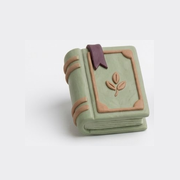
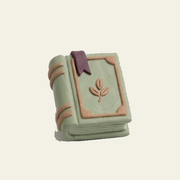
Use clay art only on the Little Library welcome.
Cut the books and wordmark out as transparent PNGs, show them on a one-time intro, and keep the app itself on Alice with an icon-only dock.

Changed region(s): [[0.1944, 0.2222, 0.8333, 0.8056]]

diff --git a/docs/library/styles.css b/docs/library/styles.css
@@ -83,17 +83,18 @@ img { max-width: 100%; display: block; }
   backdrop-filter: blur(24px) saturate(1.2);
   -webkit-backdrop-filter: blur(24px) saturate(1.2);
   border-radius: 999px;
-  padding: 0 18px 0 16px;
+  padding: 0 18px;
   box-shadow: 0 8px 24px rgba(70, 50, 48, 0.07);
   overflow: hidden;
 }
-.brand-wordmark {
-  height: 36px;
-  width: auto;
-  max-width: 100%;
-  object-fit: contain;
-  object-position: left center;
-  display: block;
+.brand-text {
+  font-family: var(--display);
+  font-weight: 600;
+  font-size: 1.08rem;
+  letter-spacing: -0.015em;
+  line-height: 1;
+  white-space: nowrap;
+  color: var(--ink);
 }
 .profile-btn {
   width: var(--tap); height: var(--tap);
@@ -345,11 +346,6 @@ img { max-width: 100%; display: block; }
   background: none;
   box-shadow: none;
   margin-top: 4px;
-}
-.empty-art {
-  width: min(300px, 86%);
-  height: auto;
-  margin: 4px auto 18px;
 }
 .empty h2 {
   margin: 0 0 8px;
@@ -638,11 +634,10 @@ img { max-width: 100%; display: block; }
   padding: 0 2px;
   transition: color 220ms ease, transform 180ms ease, opacity 160ms ease;
 }
-.tab img {
-  height: 20px;
-  width: auto;
-  max-width: 100%;
-  object-fit: contain;
+.tab svg {
+  width: 26px;
+  height: 26px;
+  stroke-width: 1.75;
   display: block;
   pointer-events: none;
 }
@@ -892,6 +887,140 @@ img { max-width: 100%; display: block; }
     box-shadow: 0 0 0 1px rgba(50, 70, 52, 0.06), 0 24px 80px rgba(40, 60, 45, 0.12);
     border-radius: 0;
   }
+}
+
+
+/* —— First-visit welcome (clay only here) —— */
+@keyframes welcomeButtonGradient {
+  0%, 100% { background-position: 0% 50%; }
+  50% { background-position: 100% 50%; }
+}
+@keyframes welcomeIconBounce {
+  0% { opacity: 0; transform: translateY(12px) scale(.88); }
+  55% { opacity: 1; transform: translateY(-5px) scale(1.03); }
+  78% { transform: translateY(2px) scale(.98); }
+  100% { opacity: 1; transform: translateY(0) scale(1); }
+}
+.welcome {
+  position: absolute;
+  inset: 0;
+  z-index: 100;
+  display: flex;
+  flex-direction: column;
+  align-items: center;
+  justify-content: flex-start;
+  text-align: center;
+  padding: calc(28px + var(--safe-top)) 28px calc(28px + var(--safe-bottom));
+  background: #E7EBE4;
+  opacity: 0;
+  transition: opacity .36s ease;
+}
+.welcome[hidden] { display: none; animation: none; }
+.welcome.open { opacity: 1; }
+.welcome-main {
+  flex: 1;
+  display: flex;
+  flex-direction: column;
+  align-items: center;
+  justify-content: center;
+  width: min(420px, 100%);
+}
+.welcome-emoji,
+.welcome-wordmark,
+.welcome-line,
+.welcome-enter {
+  opacity: 0;
+  transform: translateY(14px);
+  transition: opacity 560ms cubic-bezier(.22, 1, .36, 1), transform 560ms cubic-bezier(.22, 1, .36, 1);
+}
+.welcome.open .welcome-emoji { opacity: 1; transform: none; transition-delay: 90ms; }
+.welcome.open .welcome-wordmark { opacity: 1; transform: none; transition-delay: 220ms; }
+.welcome.open .welcome-line { opacity: 1; transform: none; transition-delay: 350ms; }
+.welcome.open .welcome-enter { opacity: 1; transform: none; transition-delay: 480ms; }
+.welcome-emoji {
+  display: flex;
+  align-items: flex-end;
+  justify-content: center;
+  gap: 4px;
+  line-height: 1;
+  margin: 0 0 40px;
+}
+.welcome-emoji img {
+  width: 92px;
+  height: 92px;
+  object-fit: contain;
+  display: block;
+  opacity: 0;
+  transform: translateY(12px) scale(.88);
+}
+.welcome.open .welcome-emoji img {
+  animation: welcomeIconBounce 500ms cubic-bezier(.22, 1, .36, 1) both;
+}
+.welcome.open .welcome-emoji img:nth-child(2) { animation-delay: 110ms; }
+.welcome.open .welcome-emoji img:nth-child(3) { animation-delay: 220ms; }
+@media (max-width: 380px) {
+  .welcome-emoji img { width: 76px; height: 76px; }
+}
+.welcome-wordmark {
+  width: min(280px, 78vw);
+  height: auto;
+  display: block;
+  object-fit: contain;
+  margin: 0 0 28px;
+  opacity: 0;
+  transform: translateY(14px) scale(.96);
+}
+.welcome-line {
+  margin: 0 0 22px;
+  max-width: 32ch;
+  color: var(--ink-2);
+  font-size: 1.02rem;
+  line-height: 1.55;
+}
+.welcome-enter, .about-replay {
+  width: 100%;
+  min-height: 52px;
+  border: none;
+  outline: none;
+  border-radius: 999px;
+  cursor: pointer;
+  font-family: var(--font);
+  font-weight: 600;
+  font-size: 1rem;
+  letter-spacing: 0.01em;
+}
+.welcome-enter {
+  width: min(184px, 100%);
+  min-height: 50px;
+  margin: 18px 0 0;
+  color: #fff;
+  background: linear-gradient(120deg, #5E7A5C 0%, #A9C4A4 44%, #6E8B71 100%);
+  background-size: 220% 100%;
+  border: 0;
+  -webkit-appearance: none;
+  appearance: none;
+  box-shadow: none;
+  animation: welcomeButtonGradient 8s ease-in-out infinite;
+}
+.welcome-enter:active { transform: scale(0.98); }
+.welcome-enter:focus,
+.welcome-enter:focus-visible,
+.welcome-enter:hover,
+.welcome-enter:active {
+  border: 0;
+  outline: none;
+  box-shadow: none;
+}
+.about-replay {
+  margin: 14px 0 8px;
+  color: var(--accent-dark);
+  background: rgba(255, 254, 252, 0.72);
+  box-shadow: var(--shadow);
+}
+.about-replay:active { transform: scale(0.985); }
+.about-replay:focus-visible {
+  outline: 2px solid var(--accent-dark);
+  outline-offset: 3px;
 }
 
 @media (prefers-reduced-motion: reduce) {

diff --git a/docs/library/index.html b/docs/library/index.html
@@ -21,7 +21,7 @@
   <div id="app">
     <header class="topbar">
       <div class="brand">
-        <img class="brand-wordmark" src="icons/clay-wordmark.png" alt="Little Library" width="918" height="508"/>
+        <span class="brand-text">Little Library</span>
       </div>
       <button type="button" class="profile-btn" id="open-profile" aria-label="Child profile and settings">
         <svg viewBox="0 0 24 24" fill="none" stroke="currentColor" stroke-linecap="round" stroke-linejoin="round">
@@ -46,7 +46,6 @@
         </div>
         <div id="shelf-list" class="book-list"></div>
         <div id="shelf-empty" class="empty" hidden>
-          <img class="empty-art" src="icons/clay-books.png" alt="" width="1073" height="318"/>
           <h2>A quiet shelf</h2>
           <p>Scan a barcode, or add a book by hand. Vietnamese titles do not need an ISBN.</p>
           <div class="empty-actions">
@@ -95,16 +94,16 @@
       <div class="seg" id="dock-seg">
         <div class="tab-indicator" id="tab-indicator" aria-hidden="true"></div>
         <button type="button" class="tab active" data-view="shelf" aria-current="page" aria-label="Shelf">
-          <img src="icons/nav-shelf.png" alt="" width="614" height="210"/>
+          <svg viewBox="0 0 24 24" fill="none" stroke="currentColor" aria-hidden="true"><path d="M5 4.5v15M19 4.5v15M5 8.5h14M5 16h14" stroke-linecap="round"/><path d="M8.5 8.5V16M12 8.5v4.5M15.5 8.5V16" stroke-linecap="round"/></svg>
         </button>
         <button type="button" class="tab" data-view="genres" aria-label="Genres">
-          <img src="icons/nav-genres.png" alt="" width="828" height="208"/>
+          <svg viewBox="0 0 24 24" fill="none" stroke="currentColor" aria-hidden="true"><rect x="4" y="4" width="7" height="7" rx="1.6"/><rect x="13" y="4" width="7" height="7" rx="1.6"/><rect x="4" y="13" width="7" height="7" rx="1.6"/><rect x="13" y="13" width="7" height="7" rx="1.6"/></svg>
         </button>
         <button type="button" class="tab" data-view="scan" aria-label="Scan">
-          <img src="icons/nav-scan.png" alt="" width="570" height="208"/>
+          <svg viewBox="0 0 24 24" fill="none" stroke="currentColor" aria-hidden="true"><path d="M7 4H5.2A1.2 1.2 0 0 0 4 5.2V7M17 4h1.8A1.2 1.2 0 0 1 20 5.2V7M7 20H5.2A1.2 1.2 0 0 1 4 18.8V17M17 20h1.8A1.2 1.2 0 0 0 20 18.8V17" stroke-linecap="round"/><path d="M8 9v6M11 9v6M14 9v6M17 9v6" stroke-linecap="round"/></svg>
         </button>
         <button type="button" class="tab" data-view="foryou" aria-label="For you">
-          <img src="icons/nav-foryou.png" alt="" width="842" height="208"/>
+          <svg viewBox="0 0 24 24" fill="none" stroke="currentColor" aria-hidden="true"><path d="M12 19.2s-6.2-3.9-6.2-8A3.5 3.5 0 0 1 12 8.4a3.5 3.5 0 0 1 6.2 2.8c0 4.1-6.2 8-6.2 8z" stroke-linejoin="round"/></svg>
         </button>
       </div>
     </nav>
@@ -137,6 +136,7 @@
           <button type="button" class="btn btn-secondary btn-block" id="export-json">Export library JSON</button>
           <button type="button" class="btn btn-secondary btn-block" id="import-json">Import library JSON</button>
           <input type="file" id="import-file" accept="application/json,.json" hidden/>
+          <button type="button" class="about-replay" id="welcome-replay">What is this</button>
         </div>
       </div>
     </div>
@@ -226,6 +226,20 @@
           <button type="button" class="btn btn-danger btn-block" id="confirm-delete">Remove</button>
           <button type="button" class="btn btn-secondary btn-block" data-close-sheet>Keep it</button>
         </div>
+      </div>
+    </div>
+
+
+    <div class="welcome" id="welcome" role="dialog" aria-modal="true" aria-labelledby="welcome-title" hidden>
+      <div class="welcome-main">
+        <div class="welcome-emoji" aria-hidden="true">
+          <img src="icons/clay-book.png" alt="" width="92" height="92"/>
+          <img src="icons/clay-stack.png" alt="" width="92" height="92"/>
+          <img src="icons/clay-open.png" alt="" width="92" height="92"/>
+        </div>
+        <img class="welcome-wordmark" id="welcome-title" src="icons/clay-wordmark.png" alt="Little Library" width="892" height="482"/>
+        <p class="welcome-line">A shelf for his books, including the Vietnamese ones.</p>
+        <button type="button" class="welcome-enter" id="welcome-enter">Enter</button>
       </div>
     </div>
 

diff --git a/docs/library/app.js b/docs/library/app.js
@@ -808,6 +808,11 @@
     $("#empty-add-manual").addEventListener("click", () => openAddForm({ language: "vi" }, { manual: true }));
     $("#add-manual").addEventListener("click", () => openAddForm({ language: "vi" }, { manual: true }));
     $("#open-profile").addEventListener("click", openProfile);
+    $("#welcome-enter").addEventListener("click", () => closeWelcome(true));
+    $("#welcome-replay").addEventListener("click", () => {
+      closeSheets();
+      openWelcome();
+    });
     $("#sheet-backdrop").addEventListener("click", closeSheets);
     $$("[data-close-sheet]").forEach((b) => b.addEventListener("click", closeSheets));
     $("#profile-save").addEventListener("click", saveProfile);
@@ -940,6 +945,45 @@
     window.addEventListener("orientationchange", () => setTimeout(updateTabIndicator, 200));
   }
 
+
+  /* —— First-visit welcome —— */
+  const WELCOME_KEY = "little-library-welcome";
+  function openWelcome() {
+    const welcome = $("#welcome");
+    const enter = $("#welcome-enter");
+    if (!welcome) return;
+    const bits = welcome.querySelectorAll(".welcome-emoji, .welcome-wordmark, .welcome-line, .welcome-enter");
+    welcome.classList.remove("open");
+    welcome.hidden = false;
+    welcome.style.transition = "none";
+    bits.forEach((el) => { el.style.transition = "none"; });
+    void welcome.offsetWidth;
+    welcome.style.removeProperty("transition");
+    bits.forEach((el) => { el.style.removeProperty("transition"); });
+    requestAnimationFrame(() => {
+      welcome.classList.add("open");
+      setTimeout(() => {
+        if (welcome.classList.contains("open")) enter.focus({ preventScroll: true });
+      }, 820);
+    });
+  }
+  function closeWelcome(persist) {
+    const welcome = $("#welcome");
+    if (!welcome) return;
+    if (persist) {
+      try { localStorage.setItem(WELCOME_KEY, "1"); } catch (err) {}
+    }
+    welcome.classList.remove("open");
+    setTimeout(() => {
+      if (!welcome.classList.contains("open")) welcome.hidden = true;
+    }, 320);
+  }
+  function maybeWelcome() {
+    let seen = false;
+    try { seen = localStorage.getItem(WELCOME_KEY) === "1"; } catch (err) {}
+    if (!seen) openWelcome();
+  }
+
   /* —— Boot —— */
   function boot() {
     bind();
@@ -947,6 +991,7 @@
     setView("shelf");
     renderShelf();
     requestAnimationFrame(updateTabIndicator);
+    maybeWelcome();
   }
 
   if (document.readyState === "loading") document.addEventListener("DOMContentLoaded", boot);

diff --git a/docs/index.html b/docs/index.html
@@ -99,6 +99,12 @@
     box-shadow: 0 10px 32px rgba(70, 50, 48, 0.06);
     background: #fff;
   }
+  .app img.app-clay {
+    object-fit: contain;
+    background: transparent;
+    border-radius: 0;
+    box-shadow: none;
+  }
   .app span {
     font-weight: 600;
     font-size: 0.95rem;
@@ -129,7 +135,7 @@
         <span>Toddler Spots</span>
       </a>
       <a class="app" href="library/">
-        <img src="library/icons/icon-512.png" alt="" width="512" height="512"/>
+        <img class="app-clay" src="library/icons/clay-book.png" alt="" width="239" height="275"/>
         <span>Little Library</span>
       </a>
     </main>

diff --git a/design.md b/design.md
@@ -19,7 +19,7 @@ Google fonts link, used on every app:
 | UI | Nunito | 400, 500, 600, 700 | `--font: "Nunito", system-ui, -apple-system, BlinkMacSystemFont, sans-serif;` |
 | Display (wordmarks, sheet titles) | Alice | 400 (the face is a single roman) | `--display: "Alice", "Iowan Old Style", "Palatino Linotype", Palatino, Georgia, serif;` |
 
-Wordmarks use `--display` at weight 600. Buttons, tabs, and body copy use `--font`.
+In-app titles use `--display` at weight 600. Buttons, tabs, and body copy use `--font`. A clay wordmark image is only for the welcome screen (see Clay).
 
 ## Shared tokens
 
@@ -131,6 +131,26 @@ New UI (the hub, Little Library, anything after) respects `prefers-reduced-motio
 **Sheets.** Slide up from the bottom over a dim backdrop (`rgba(55, 42, 40, 0.22)`). Sheet fill `rgba(255, 254, 252, 0.96)`, `blur(28px) saturate(1.15)`, radius `36px 36px 0 0`, shadow `--shadow-lg`. A 40×4px handle, radius 999px, tinted with the accent at about 0.35 alpha. Transform eases with `cubic-bezier(.32, .72, 0, 1)`.
 
 **Shell.** Mobile, full viewport, safe areas, 48px targets, focus ring `2px solid var(--accent-dark)`.
+
+
+## Clay
+
+Clay photos are cut out to transparent PNGs before they ship. Never show the original rectangular photo, and never leave a white or cream halo around the clay.
+
+The clay wordmark image appears only on the first-visit welcome. Everywhere else, titles are set in Alice (`--display`), not the clay wordmark.
+
+That welcome is a full-screen dialog, once per browser, remembered in localStorage, with a replay control (Toddler Spots uses "What is this"):
+
+1. A row of small transparent clay object icons that bounce in (`welcomeIconBounce`, staggered).
+2. The clay wordmark image.
+3. One short line in Nunito.
+4. An Enter button whose fill drifts with `welcomeButtonGradient`.
+
+The dock is icon-only stroke SVGs, the same glass bar as the rest of the chrome. Do not put clay words, clay letters, or text labels in the tab bar.
+
+The blurred header overlay stays shared. The glass pill in that header uses Alice, not the clay wordmark. An app may keep a small clay object beside that serif title (Toddler Spots does). It may not put the clay wordmark there.
+
+Each app brings its own clay objects and its own color theme. The welcome shape, the serif titles, the icon dock, and the blurred header do not change.
 
 ## Rule
 
